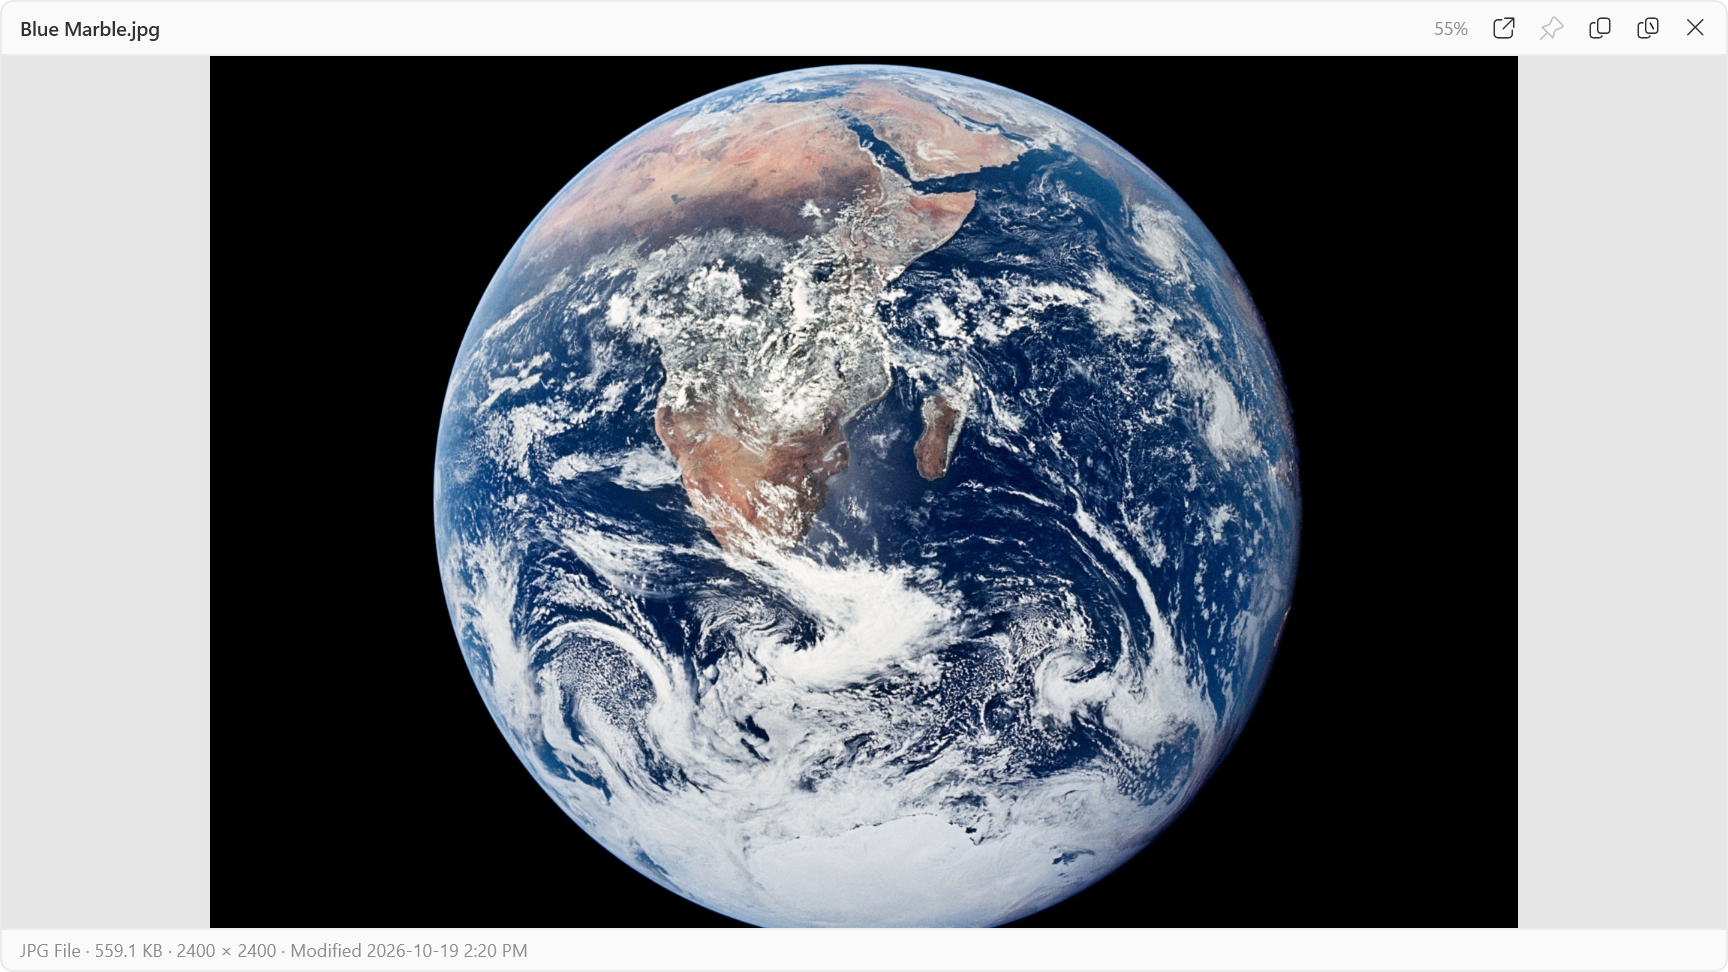
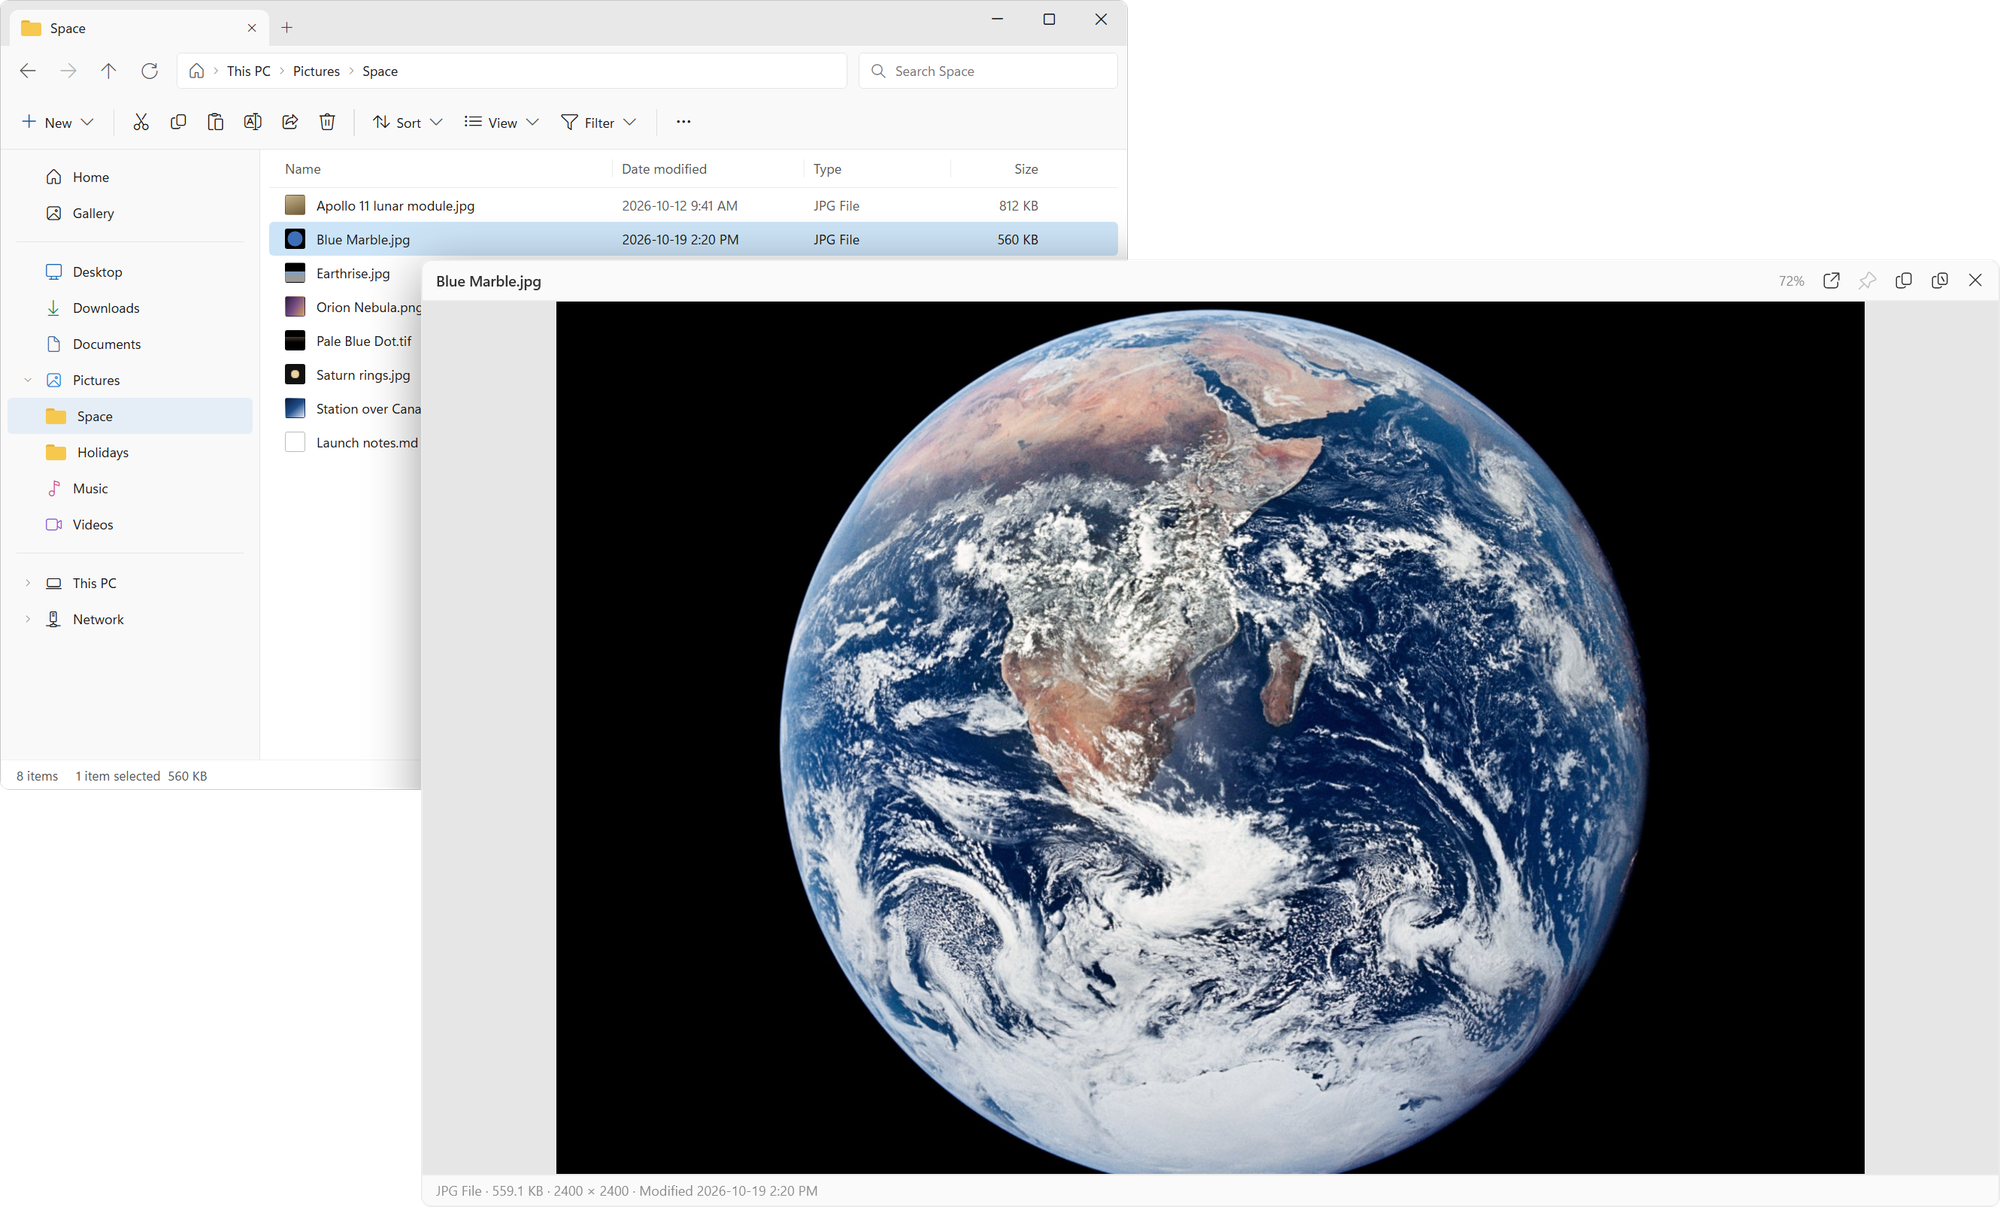
Peekee card: the preview in front of a File Explorer window
Shows where the preview comes from: Blue Marble.jpg selected in File
Explorer, the Peekee preview over it. Larger preview capture, cropped
tight; the Peekee frame uses a 3 percent inset (.shot.window.wide).

diff --git a/index.html b/index.html
@@ -191,6 +191,7 @@
   .shot.window > img { inset: 7%; width: 86%; height: 86%; object-fit: contain; filter: drop-shadow(0 6px 18px rgba(15, 23, 42, .22)) drop-shadow(0 1px 3px rgba(15, 23, 42, .18)); }
   .shot.window.tall { aspect-ratio: 1 / 1; } /* a portrait window, such as a popup, gets a square frame so it is not shrunk to a sliver */
   .shot.window.tall > img { inset: 6%; width: 88%; height: 88%; }
+  .shot.window.wide > img { inset: 3%; width: 94%; height: 94%; } /* a wide composite (Peekee over File Explorer) fills more of its frame */
   .shot .watermark { opacity: .32; transform: scale(1.6); filter: grayscale(1); }
   .shot:has(> img) .watermark { display: none; }
   @media (max-width: 820px) {
@@ -524,8 +525,8 @@
           <a class="lnk" href="https://github.com/markticulous/Peekee/releases" rel="noopener"><svg viewBox="0 0 16 16" width="14" height="14" aria-hidden="true"><path d="M4 2.5h6l2.5 2.5v8.5h-8.5z M6 7h4.5 M6 9.5h4.5" fill="none" stroke="currentColor" stroke-width="1.2" stroke-linejoin="round"/></svg>Release notes</a>
         </div>
       </div>
-      <figure data-scrub class="shot window">
-        <img src="assets/peekee-screenshot.png" alt="The Peekee preview window showing the Apollo 17 Blue Marble photograph of the Earth, with the file name at the top and its type, size and date at the bottom" loading="lazy" width="1728" height="972">
+      <figure data-scrub class="shot window wide">
+        <img src="assets/peekee-screenshot.png" alt="A File Explorer window with Blue Marble.jpg selected, and in front of it the Peekee preview window showing that photograph of the Earth, with the file name at the top and its type, size and date at the bottom" loading="lazy" width="2000" height="1207">
         <picture class="watermark" aria-hidden="true">
           <source srcset="assets/peekee-wordmark-dark.svg" media="(prefers-color-scheme: dark)">
           <img class="wm wm-peekee" src="assets/peekee-wordmark-light.svg" alt="" height="24">
